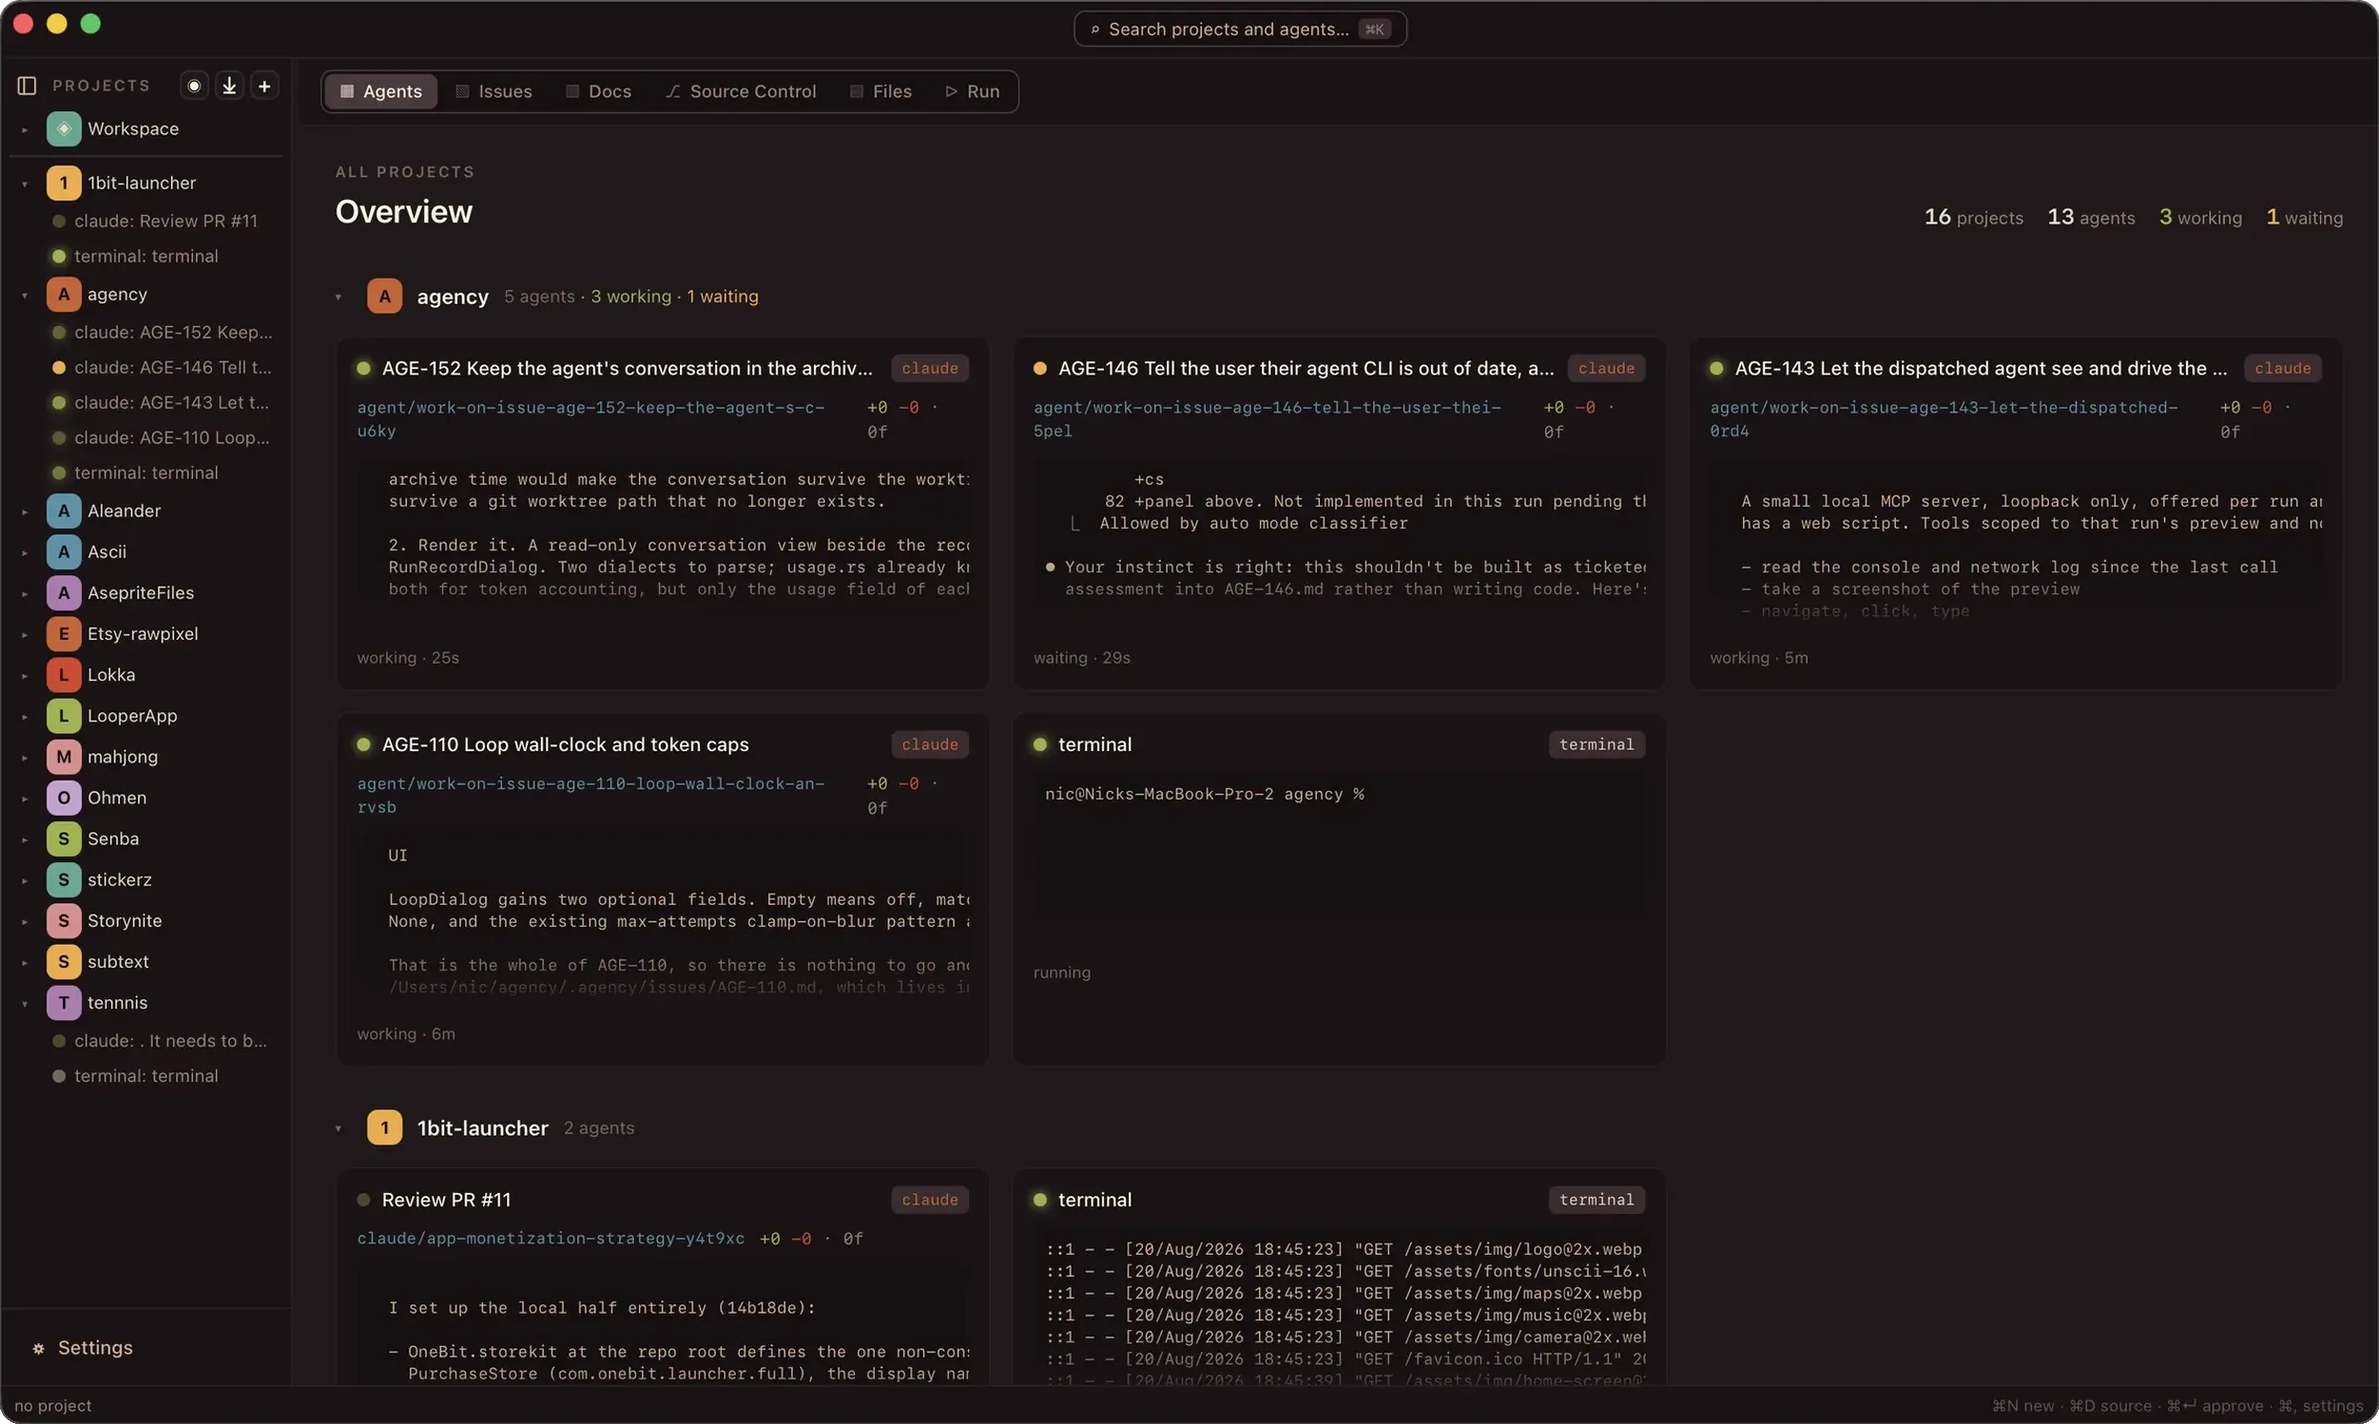
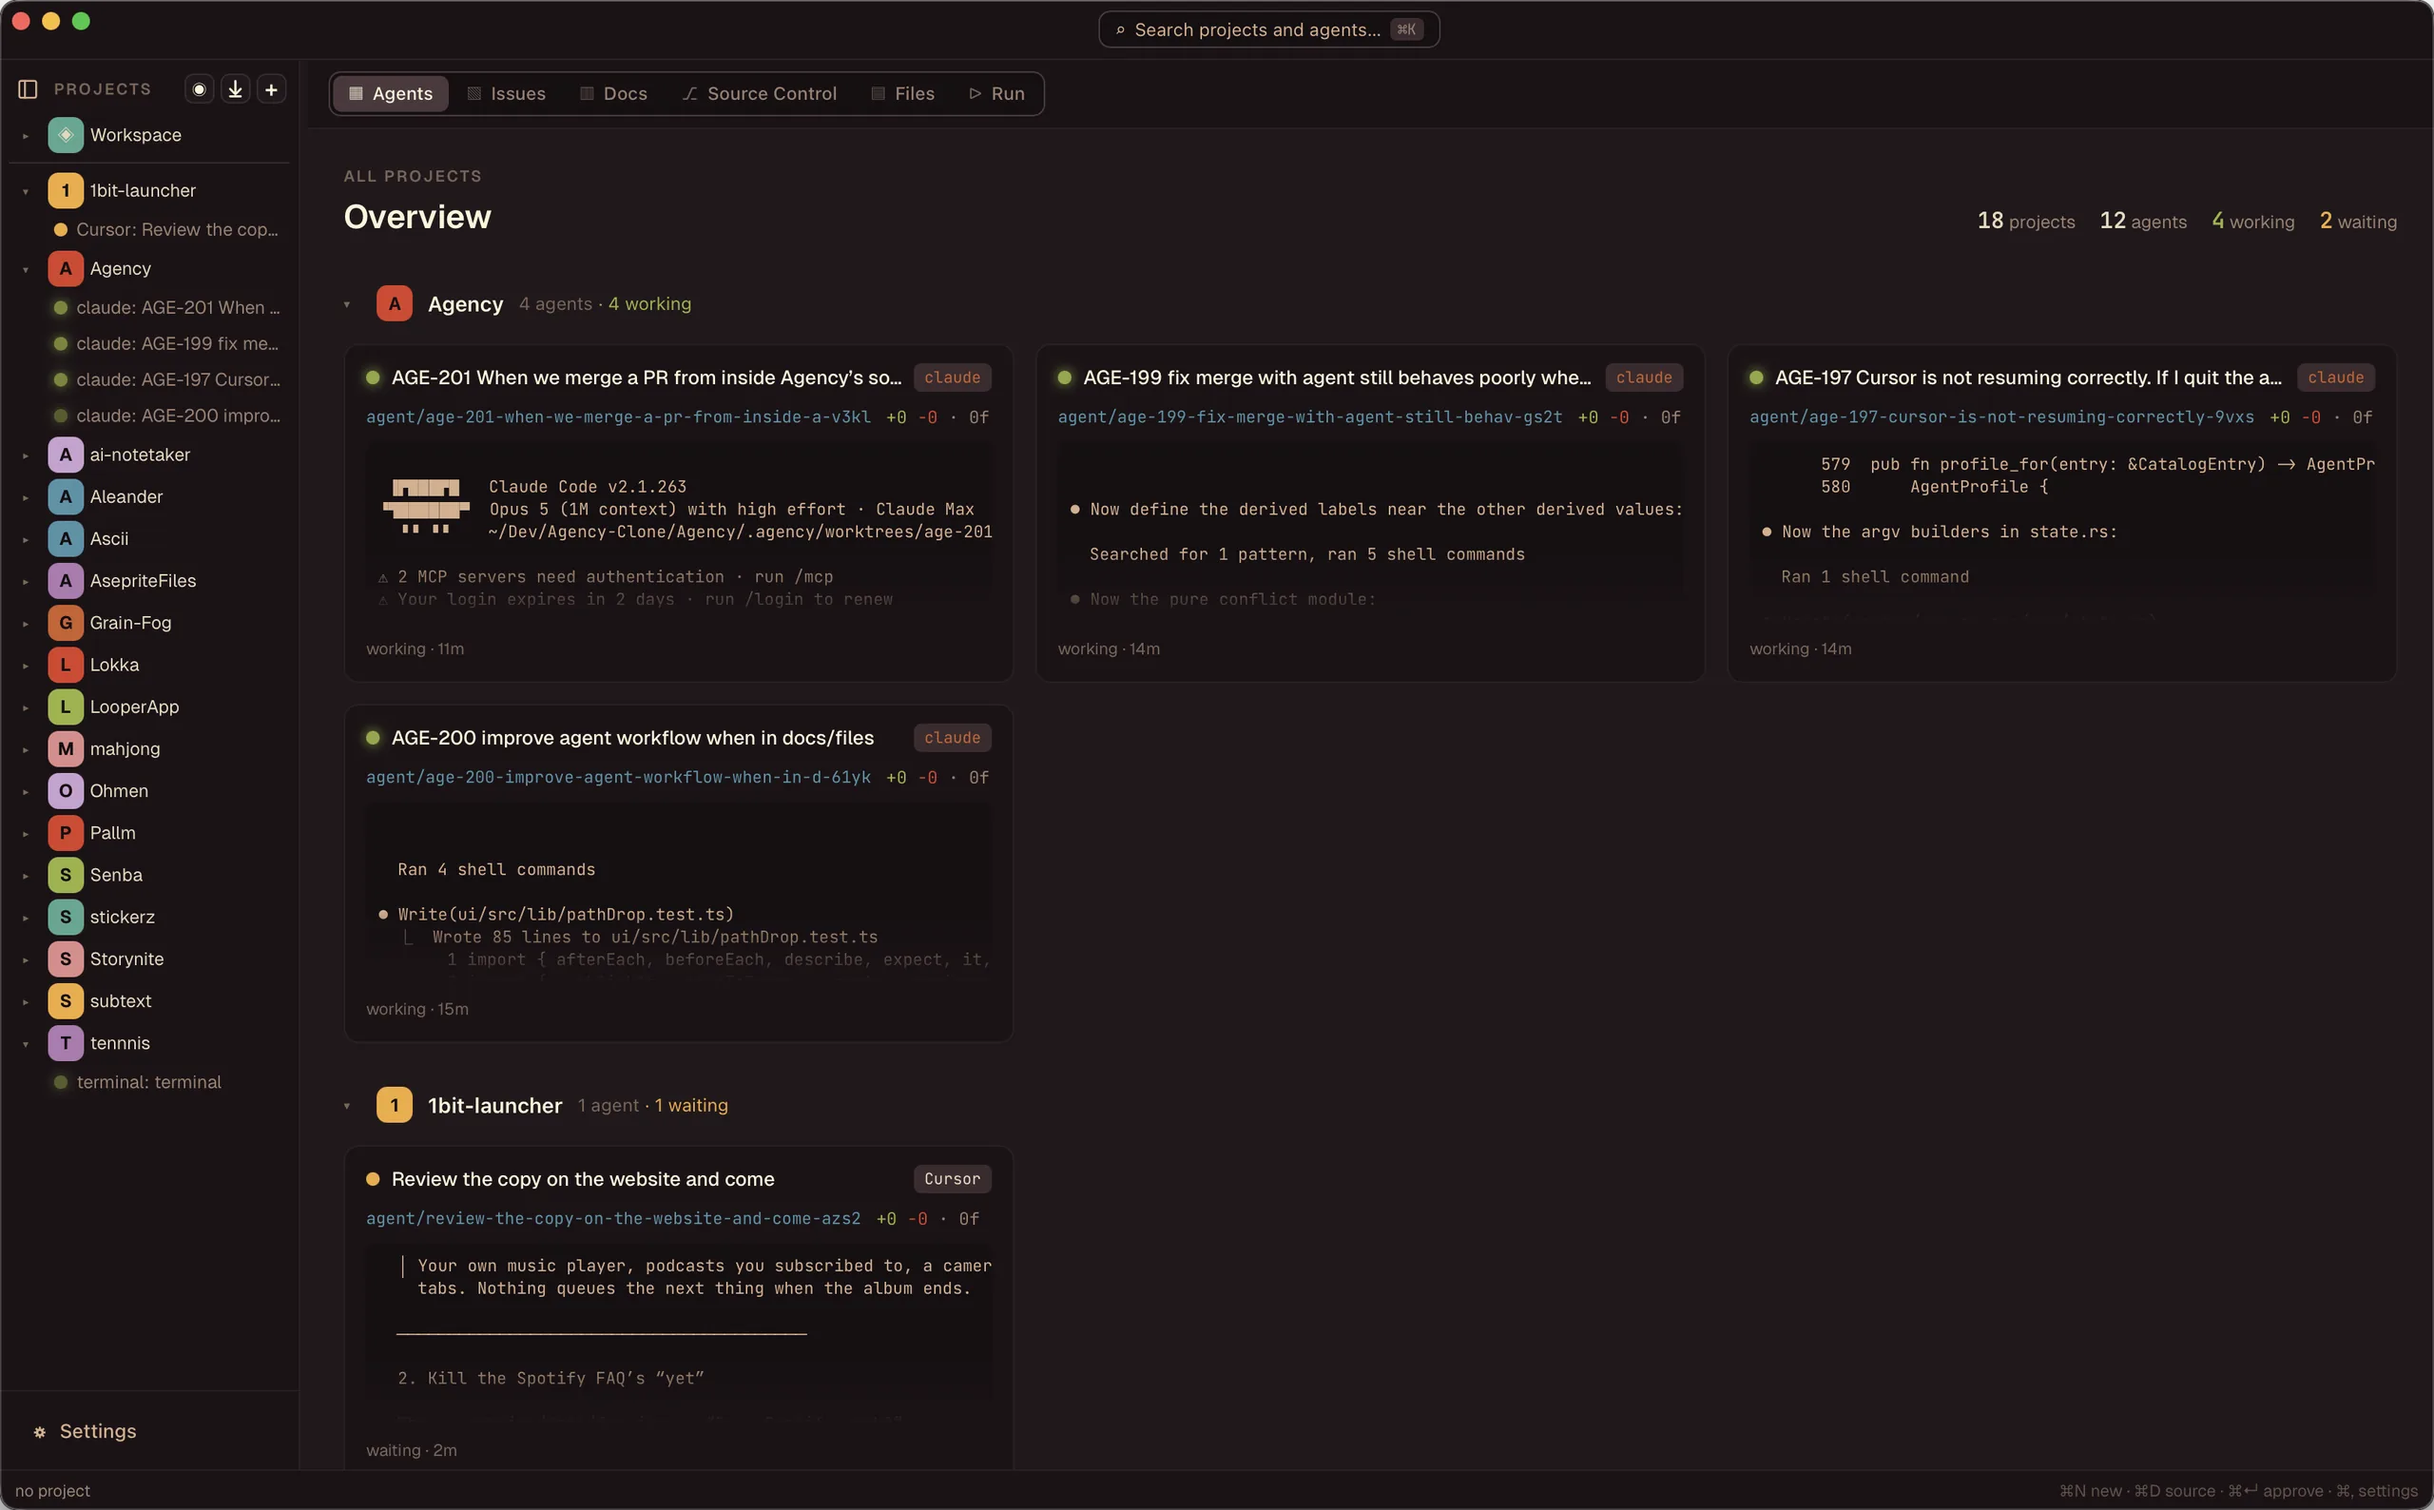
Update website images

diff --git a/site/index.html b/site/index.html
@@ -62,8 +62,8 @@
     </div>
     <p class="meta hero-meta">v0.1.0 <span class="dot">&middot;</span> macOS 11 or later, Apple Silicon <span class="dot">&middot;</span> free <span class="dot">&middot;</span> no account</p>
     <div class="hero-shot shot">
-      <img src="/assets/img/shot-overview.webp" width="2502" height="1498"
-        alt="The Agency window showing the all-projects overview: 16 projects and 13 agents, with live terminal output from several Claude Code runs, each on its own agent branch, and a plain terminal alongside.">
+      <img src="/assets/img/shot-overview.webp" width="2560" height="1588"
+        alt="The Agency window showing the all-projects overview: 18 projects and 12 agents, with live terminal output from several Claude Code runs and a Cursor agent, each on its own agent branch.">
     </div>
   </div>
 </section>

diff --git a/README.md b/README.md
@@ -13,9 +13,9 @@ git worktree.** Watch them live, review what they changed, merge the good ones.
      deliberately, because the same image already ships on the public site.
      When a demo-repo capture exists, replace both together. -->
 
-![The Agency window showing the all-projects overview: 16 projects and 13
-agents, with live terminal output from several Claude Code runs, each on its own
-agent branch, and a plain terminal alongside.](site/assets/img/shot-overview.webp)
+![The Agency window showing the all-projects overview: 18 projects and 12
+agents, with live terminal output from several Claude Code runs and a Cursor
+agent, each on its own agent branch.](site/assets/img/shot-overview.webp)
 
 Built with [Tauri 2](https://tauri.app): a Rust backend (`crates/`) and a React
 + Vite frontend (`ui/`).

diff --git a/site/README.md b/site/README.md
@@ -97,7 +97,7 @@ against the shot list in `05-assets.md`:
 
 | Site image | Capture | Shot-list slot |
 |---|---|---|
-| `shot-overview.webp` | all-projects overview, 13 agents | stands in for SHOT-01 (hero) |
+| `shot-overview.webp` | all-projects overview, 12 agents | stands in for SHOT-01 (hero) |
 | `shot-focus.webp` | focus view, agent working an issue | SHOT-02 |
 | `shot-issues.webp` | Issues board and detail (1bit-launcher) | SHOT-04/05 |
 | `shot-docs.webp` | a design spec open, with its outline and backlinks panel | SHOT-06 |
